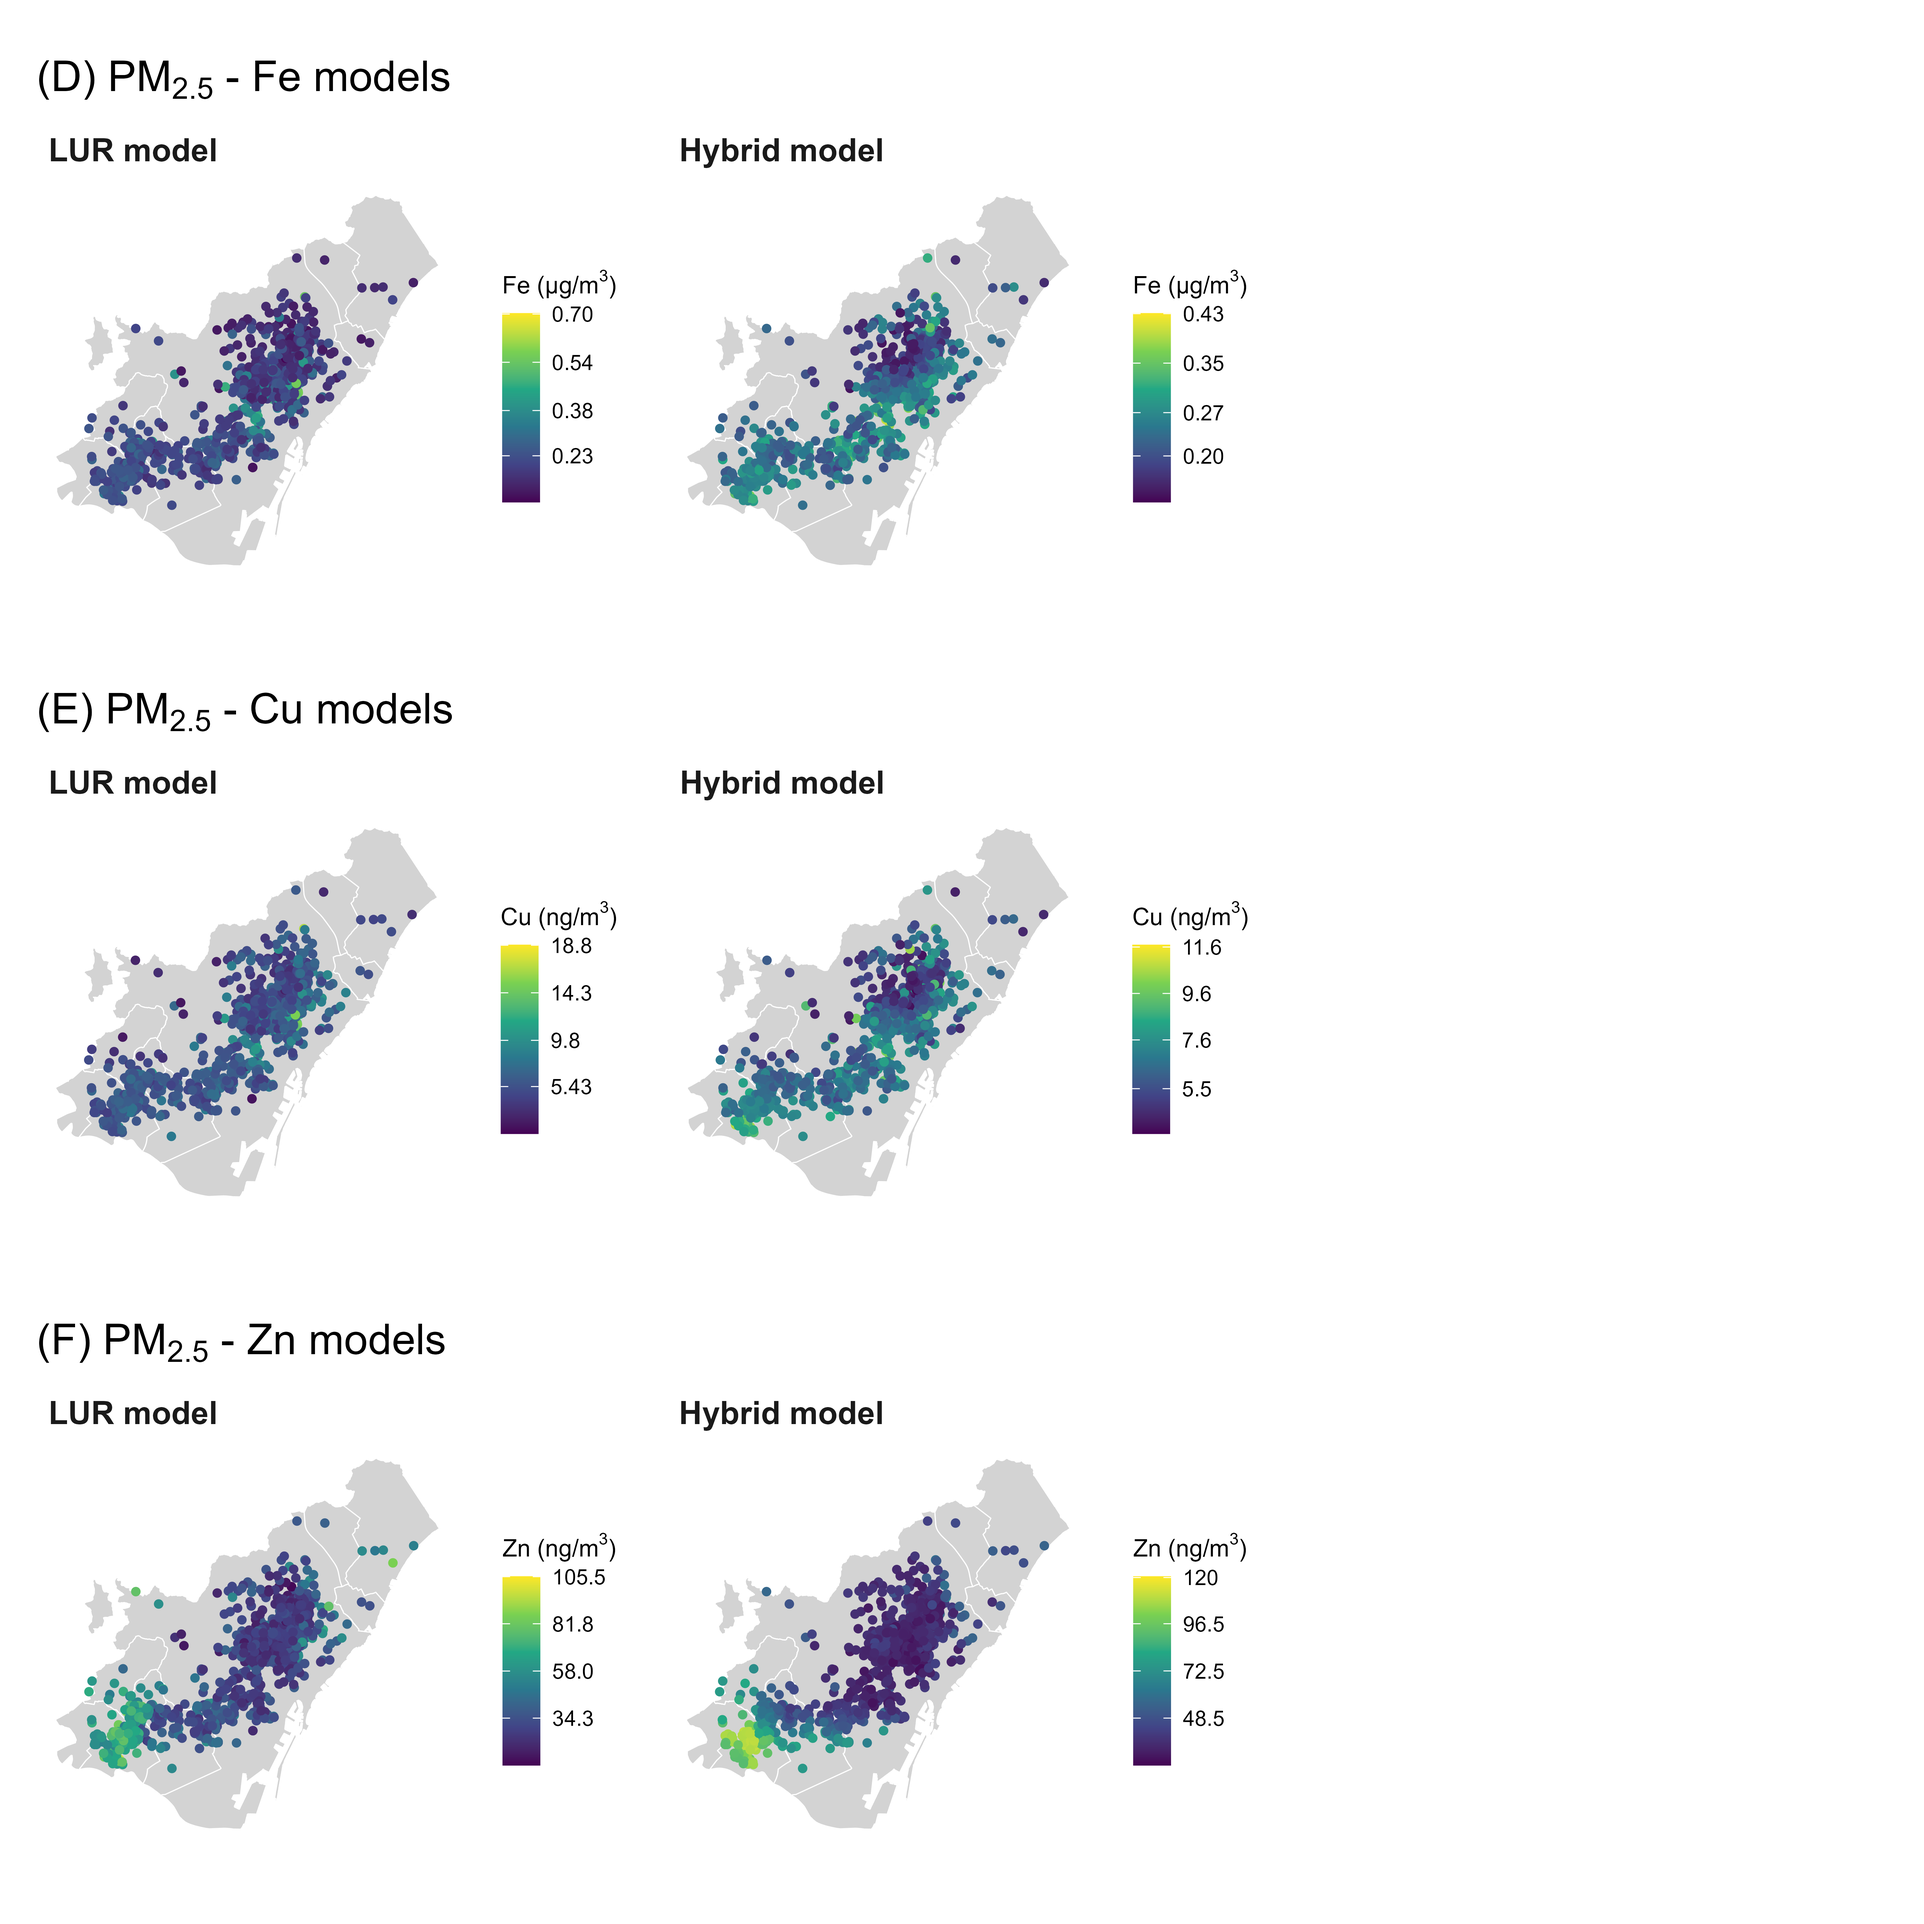
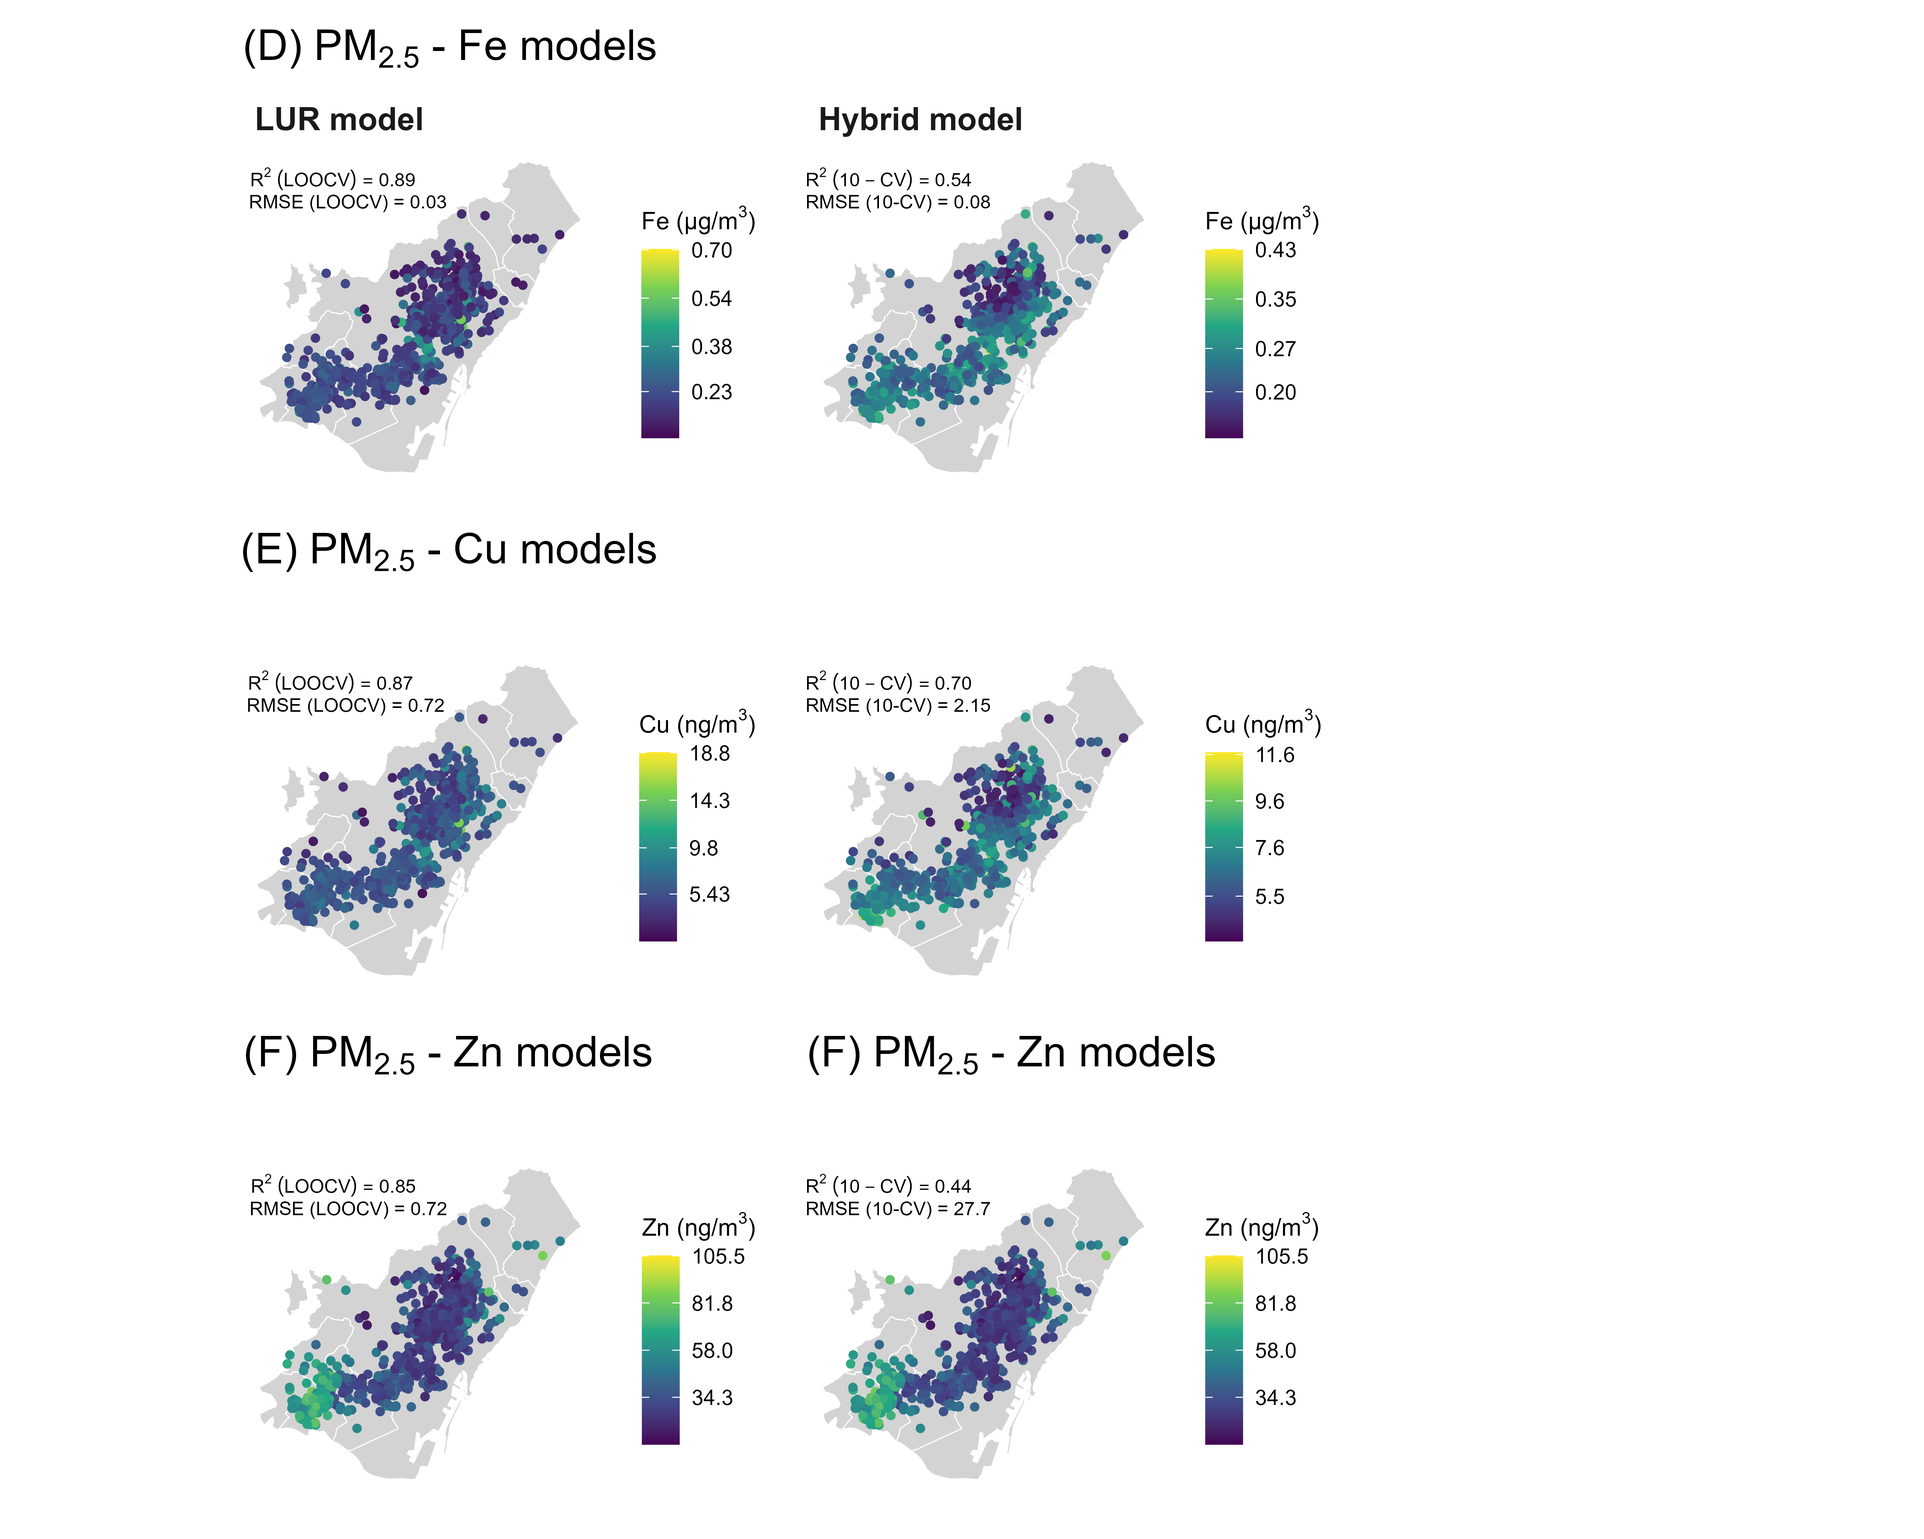
Updates from Overleaf

diff --git a/manuscript_BiSC_outdoor_AP.tex b/manuscript_BiSC_outdoor_AP.tex
@@ -171,6 +171,9 @@ We assessed the performance of each hybrid model by contrasting predictions with
 
 Additionally, we employed a grid search for hyperparameter tuning to select the best configuration to obtain the optimal model based on the \textit{Root Mean Squared Error (R\textsuperscript{2})}. 
 
+\subsection{Comparison between model estimates}
+Exposure estimates obtained from LUR, DM, and HM were compared at the BiSC participant's address level for long- and short-term exposure. We compare the distribution of estimated concentrations between models and pollutants and calculate Spearman (Rho) correlation coefficients. We used scatterplots and Bland-Altmant plots to investigate the level of agreement between the different models.  
+
 All statistical analyses were performed in R version 4.3.1 \cite{Rstudio}. GIS predictor variables were computed using X software. 
 
 %%%%%%%%%%%%%%%%%%%%%%%%
@@ -183,7 +186,7 @@ All statistical analyses were performed in R version 4.3.1 \cite{Rstudio}. GIS p
 %%%%%%%%%%%%%%%%%%%%%%%%%%%%%%%%%%%%%%%%%%%%%%%%%%%%
 \subsection{Distribution of air pollution measurements}
 
-Distribution of the observed concentration for the BiSC-home and BiSCAPE campaigns for all pollutants is shown in \Cref{table1}. NO\textsubscript{2} concentration levels for the combination of BiSC-home and BiSCAPE campaigns ranged between 6.85 and 97.3 \(\mu \text{g/m}^3\) with a median of  37.5 \(\pm\) 15.8 \( \mu \text{g/m}^3\). PM\textsubscript{2.5} observed levels ranged between 5.01 and 35.8 \( \mu \text{g/m}^3\) with a median of 11.3 \(\pm\) 7.14 \(\mu \text{g/m}^3\), while BC levels showed less variation during the BiSCAPE campaign, ranging from 0.40 to 2.95 \(  \mu \text{g/m}^3\) with a median of 1.22 \(\pm\) 0.64 \( \mu \text{g/m}^3\). For PM\textsubscript{2.5} constituents  observed values during the BiSCAPE campaign varied substantially between elements with medians of 0.21 \(\pm\) 0.17 \(  \mu \text{g/m}^3\)  for  Fe,  6.36 \(\pm\) 4.61 \( \text{ng/m}^3 \) for Cu, and 28.2 \(\pm\) 27.8 \( \text{ng/m}^3 \) for Zn. 
+Distribution of the observed concentration for the BiSC-home and BiSCAPE campaigns for all pollutants are shown in \Cref{table1}. NO\textsubscript{2} concentration levels for the combination of BiSC-home and BiSCAPE campaigns ranged between 6.85 and 97.3 \(\mu \text{g/m}^3\) with a median of  37.5 \(\pm\) 15.8 \( \mu \text{g/m}^3\). PM\textsubscript{2.5} observed levels ranged between 5.01 and 35.8 \( \mu \text{g/m}^3\) with a median of 11.3 \(\pm\) 7.14 \(\mu \text{g/m}^3\), while BC levels showed less variation during the BiSCAPE campaign, ranging from 0.40 to 2.95 \(  \mu \text{g/m}^3\) with a median of 1.22 \(\pm\) 0.64 \( \mu \text{g/m}^3\). For PM\textsubscript{2.5} constituents  observed values during the BiSCAPE campaign varied substantially between elements with medians of 0.21 \(\pm\) 0.17 \(  \mu \text{g/m}^3\)  for  Fe,  6.36 \(\pm\) 4.61 \( \text{ng/m}^3 \) for Cu, and 28.2 \(\pm\) 27.8 \( \text{ng/m}^3 \) for Zn. 
 
 %%% ---------------------------------------------------------------- %%%
 %%% Table 1. Outdoor air pollution concentration BiSC-home, BiSCAPE  %%%
@@ -220,7 +223,7 @@ The spatial distribution of the outdoor air pollution campaigns is illustrated i
 %%%%%%%%%%%%%%%%%%%%%%%%%%%%%%%%%%%%%%%%%%%
 \subsection{Model performance: LUR, DM, HM}
 
-\Cref{fig2} and \Cref{fig3} present maps of estimated exposures to NO\textsubscript{2}, PM\textsubscript{2.5}, BC, PM\textsubscript{2.5 - Fe}, PM\textsubscript{2.5 - Cu}, and PM\textsubscript{2.5 - Zn} content  during the entire pregnancy for the BiSC participants using land use (LUR) regression models, dispersion models, and hybrid models. The performance of the models varied substantially across different pollutants as shown in \Cref{fig2} and \Cref{fig3}. In general, LUR and HM models exhibit relatively good performance, while DM shown a more conservative performance evaluated by the $R^{2}$ and $RMSE$. 
+\Cref{fig2} and \Cref{fig3} present maps of estimated exposures to NO\textsubscript{2}, PM\textsubscript{2.5}, BC, PM\textsubscript{2.5 - Fe}, PM\textsubscript{2.5 - Cu}, and PM\textsubscript{2.5 - Zn} content  during the entire pregnancy for the BiSC participants using LUR, HM, and HM. The performance of the models varied substantially across different pollutants as shown in \Cref{fig2} and \Cref{fig3}. In general, LUR and HM models exhibit relatively good performance, while DM shows a more conservative performance evaluated by the $R^{2}$ and $RMSE$.  
 
 The HM demonstrated moderate to good performance for NO\textsubscript{2} ($R^{2}_{\text{ 10-CV}} = 0.64$), PM\textsubscript{2.5} ($R^{2}_{\text{ 10-CV}} = 0.66$), and BC ($R^{2}_{\text{ 10-CV}} = 0.86$), with corresponding $RMSE_{\text{ 10-CV}}$ values of $7.48 \, \mu\text{g/m}^{3}$, $3.45 \, \mu\text{g/m}^{3}$, and $0.23 \, \mu\text{g/m}^{3}$, respectively. However, for PM\textsubscript{2.5} components, the performance was more conservative, with PM\textsubscript{2.5 - Fe} ($R^{2}_{\text{ 10-CV}} = 0.54$), PM\textsubscript{2.5 - Cu} ($R^{2}_{\text{ 10-CV}} = 0.70$), and PM\textsubscript{2.5 - Zn} ($R^{2}_{\text{ 10-CV}} = 0.44$).
 
@@ -235,7 +238,7 @@ The maps reveals distinct patterns of variability in estimated outdoor air pollu
 \captionsetup[figure]{skip=6pt}
 % We add the figure with the study domain 
 \begin{figure}[!htb]
-\includegraphics[width=0.9\textwidth]{figures/combined_figure1.png}
+\includegraphics[width=0.9\textwidth]{figures/combined_figure1_v2.png}
 \caption{Outdoor air pollution exposure during the entire pregnancy period (\textit{NO$_2$}, \textit{PM$_{2.5}$}, \textit{BC}).}
 \label{fig2}
 \end{figure}
@@ -244,14 +247,14 @@ The maps reveals distinct patterns of variability in estimated outdoor air pollu
 \captionsetup[figure]{skip=6pt}
 % We add the figure with the study domain 
 \begin{figure}[!htb]
-\includegraphics[width=0.9a\textwidth]{figures/combined_figure2.png}
-\caption{Outdoor air pollution exposure during the entire pregnancy period for LUR and hm(\textit{PM$_{2.5}$}, \textit{PM$_{2.5-Fe}$}, \textit{PM$_{2.5-Cu}$}, \textit{PM$_{2.5-Zn}$}.}
+\includegraphics[width=0.9\textwidth]{figures/combined_figure2_v2.png}
+\caption{Outdoor air pollution exposure during the entire pregnancy period for LUR and HM (\textit{PM$_{2.5}$}, \textit{PM$_{2.5-Fe}$}, \textit{PM$_{2.5-Cu}$}, \textit{PM$_{2.5-Zn}$}.}
 \label{fig3}
 \end{figure}
 
 Results from validation of the LUR, DM, and HM models, conducted where information for validated the model was available are shown in \Cref{table2}. The validation of each model has been conducted using different validation datasets. NO\textsubscript{2} LUR model was validated using BiSC - home campaign data. NO\textsubscript{2}, PM\textsubscript{2.5} and BC from DM model were validated using data from BiSCAPE monitoring campaign. While HM models were validated using 20\% of data available initially before model training
 
-%%% --- Table 2. Performance from external validation for LUR, DM, HM --- %%%
+%%% --- Table 2. Performance from validation for LUR, DM, HM --- %%%
 \begin{table}[h!]
 \centering
     \caption{Performance from validation for LUR, DM, and HM models.}
@@ -269,7 +272,7 @@ Results from validation of the LUR, DM, and HM models, conducted where informati
     \end{tabular}
 \end{table}
 
-Due to lack of data availability we only evaluate the performance of NO\textsubscript{2} for LUR models. The performance of the LUR model decreased in the external validation by 16\%. When validated DM against BiSCAPE measurements model performance increase for NO\textsubscript{2} but decrease for PM\textsubscript{2.5} and BC. HM showed consistent results in performance using both approaches to validate the models for NO\textsubscript{2} and PM\textsubscript{2.5} models showed a similar performance that the one obtained using the \textit{10-CV}. While for BC, PM\textsubscript{2.5 - Fe}, PM\textsubscript{2.5 - Cu}, and PM\textsubscript{2.5 - Zn} performance varied between validation approaches by -19.7\%, +20.37\%, -20.0\% , and -18.8\% respectively. 
+Due to lack of data availability we only evaluate the performance of NO\textsubscript{2} for LUR models. The performance of the LUR model decreased in the external validation by 16\%. When validated DM against BiSCAPE measurements model performance increase for NO\textsubscript{2}, but decrease for PM\textsubscript{2.5} and BC. HM showed consistent results in performance using both approaches to validate the models for NO\textsubscript{2} and PM\textsubscript{2.5} models showed a similar performance that the one obtained using the \textit{10-CV}. While for BC, PM\textsubscript{2.5 - Fe}, PM\textsubscript{2.5 - Cu}, and PM\textsubscript{2.5 - Zn} performance varied between validation approaches by -19.7\%, +20.37\%, -20.0\% , and -18.8\% respectively. 
 
 %%%%%%%%%%%%%%%%%%%%%%%%%%%%%%%%%%%%%%%%%%
 %%% --- Comparison between models --- %%% 
@@ -330,8 +333,9 @@ NO\textsubscript{2}
 %%% --- Discussion --- %%%
 %%%%%%%%%%%%%%%%%%%%%%%%%
 \section{Discussion}
-We successfully developed spatiotemporal models using three different approaches (LUR, ADM, and HM). Models show moderate to good performance 
-evaluated by the defined metrics previously and displayed in more detail in the \textbf{supplementary materials}. As we expected, hybrid models outperformed the LUR and DM models for the air pollutants assessed. We believe that by combining multiple data sources, and integrating RF algorithm, we were able to capture non-linear and interactions between variables and consequently improve model predictive ability. 
+We successfully developed spatiotemporal models using three approaches (LUR, ADM, and HM). Models show moderate to good performance 
+evaluated by previously defined metrics and displayed in more detail in the \textbf{supplementary materials}. As expected, hybrid models outperformed the LUR and DM models for the air pollutants assessed. We believe that by combining multiple data sources and integrating RF algorithm, we were able to capture non-linear and interactions between variables and consequently improve model predictive ability. 
+
 
 \subsection{Comparison between LUR, DM, and Hybrid model}
 

diff --git a/supplementary_BiSC_outdoor_AP.tex b/supplementary_BiSC_outdoor_AP.tex
@@ -190,7 +190,7 @@ Following the ESCAPE guidelines
 \subsection{Model performance}
 The performance of the final models obtained for NO\textsubscript{2}, PM\textsubscript{2.5}, BC and PM\textsubscript{2.5 - Fe}, PM\textsubscript{2.5 - Cu}, PM\textsubscript{2.5 - Zn} is described in \textbf{\Cref{Table S3}}.  
 
-\subsection{Internal validation}
+\subsection{Validation LUR}
 %%% --- Table with performance metrics for Hybrid models --- %%%
 \begin{table}[ht]
 \centering
@@ -199,7 +199,7 @@ The performance of the final models obtained for NO\textsubscript{2}, PM\textsub
 \label{Table S3}
 \begin{tabular}{llllll}
 \toprule
-\textbf{Pollutant} & \textbf{Year} & \textbf{N}  &  \textbf{R\textsuperscript{2}\textsubscript{10-CV}} & \textbf{RMSE\textsubscript{10-CV}} & \textbf{Predictor variables}\tnote{1} \\
+\textbf{Pollutant} & \textbf{Year} & \textbf{N}  &   \textbf{R\textsuperscript{2}\textsubscript{10-CV}} & \textbf{RMSE\textsubscript{10-CV}} & \textbf{Predictor variables}\tnote{1} \\
 \midrule
 \multirow{2}{*}{NO\textsubscript{2}} & \multirow{2}{*}{2018-2021} & \multirow{2}{*}{489} & \multirow{2}{*}{0.62} & \multirow{2}{*}{4.03} & trafload25 + sqralt + majorroadlength50 + \\ 
  & & & & & roadlength25 + majorroadlength300 \\
@@ -224,7 +224,7 @@ PM\textsubscript{2.5 - Zn} & 2019 & 31  & 0.85 & 6.99 & ZBE + roads50 + ind1000 
 
 The best models were selected based on its better validation performance and on the availability of the sampling campaign that could better represent the study population. 
 
-\subsection{External validation}
+\subsection{Validaiton LUR: Comparison between measurements and predictions}
 
 
 
@@ -387,8 +387,6 @@ The performance metrics of the final HM for NO\textsubscript{2}, PM\textsubscrip
 \end{samepage}
 \clearpage
 
-
-
 \newpage
 \subsection{Variable importance Random Forest}
 
@@ -404,7 +402,7 @@ The performance metrics of the final HM for NO\textsubscript{2}, PM\textsubscrip
 
 \newpage
 
-\subsection{Comparison between observed measurements and predictions}
+\subsection{Validation HM: Comparison between measurements and predictions}
 
 %%% --- Figure. Comparison between measurements and predictions values in the test dataset --- %%%
 % Put the figure text closer to the Figure 3
